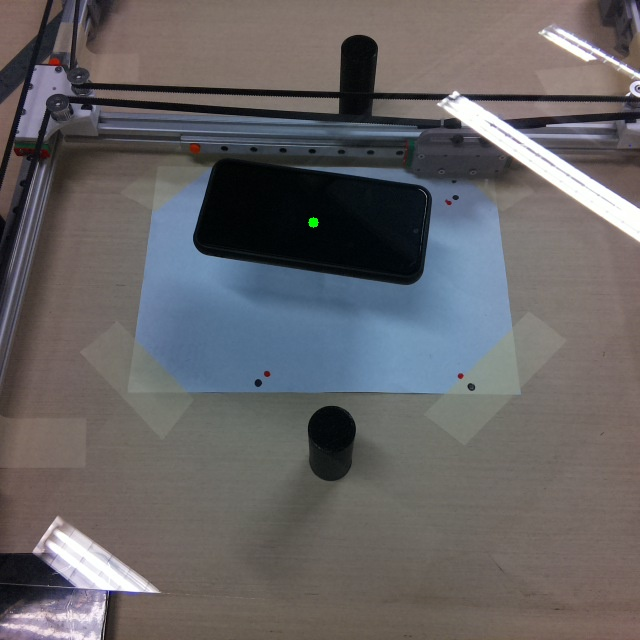
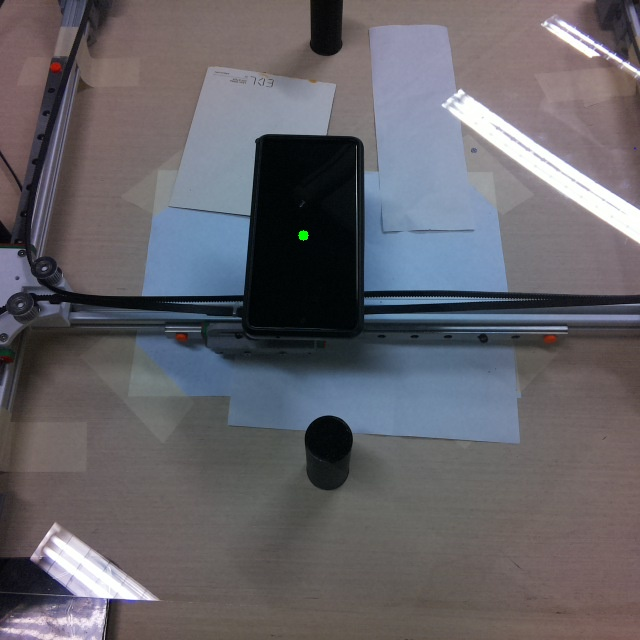
temp

diff --git a/app.py b/app.py
@@ -1,5 +1,7 @@
 import time
 import cv2
+import serial
+
 
 from detection import ObjectDetection
 from camera import BUFFER, get_image
@@ -7,28 +9,59 @@ from remap import remap_coor
 
 
 ins = ObjectDetection()
-cnt = 0
+
+# For debug purpose only uncomment this one
+# cnt = 0
 
 idx = 0
-while True:
-    idx += 1
-    if idx == BUFFER + 1:
-        idx = 1
 
-    # This is for testing only, remove the cnt for prod
-    # if cnt == 5:
-    #     break
-    
-    get_image()
-    img_path = f"obj{idx}.jpg"
-    image = cv2.imread(img_path)
+ser = serial.Serial(
+    port='/dev/ttyUSB0',  # Replace with the correct USB port for the Arduino
+    baudrate=9600,
+    timeout=1  # Timeout for read operations, in seconds
+)
 
-    res = ins.detect(img_path, idx)
+time.sleep(2)
+
+try:
+    while True:
+        idx += 1
+        if idx == BUFFER + 1:
+            idx = 1
+
+        # This is for testing only, remove the cnt for prod
+        # if cnt == 5:
+        #     break
+        st = time.time()
+        get_image()
+        img_path = f"obj{idx}.jpg"
+        image = cv2.imread(img_path)
+
+        res = ins.detect(img_path, idx)
 
 
-    # Mapping the center of phone coordinate back to image
-    print(res)
-    
+        # Mapping the center of phone coordinate back to image
+        print(res)
+        fin = [0, 0]
+        for i in res:
+            print(i)
+            fin = remap_coor(i[0], i[1])
+        print(f"Done in {time.time()-st} s")
 
-    time.sleep(2)
-    cnt += 1
+        # The string to send to the Arduino
+        data_to_send = f"{fin[0]},{fin[1]}"
+
+        # Check if serial is open and write data
+        if ser.isOpen():
+            ser.write(data_to_send.encode())  # Encode string to bytes
+            print(f"Sent '{data_to_send}' to Arduino.")
+        else:
+            print("Can't open serial port.")
+
+        time.sleep(0.5)
+        # cnt += 1
+except KeyboardInterrupt:
+    ser.close()
+    print("Gracefully exiting the program...")
+
+

diff --git a/remap.py b/remap.py
@@ -6,10 +6,11 @@ def remap_coor(x,y):
     # Define the four corners in the image
     # from the image perspective
     image_points = np.array([
-        [447., 200.], # top right (origin)
-        [456., 376.], # bottom right 
-        [261., 373.], # bottom left
-        [263., 197.], # top left
+        [459., 146.], # top right (origin)
+        [484., 339.], # bottom right 
+        [238., 336.], # bottom left
+        [258., 140.], # top left
+
         
     ], dtype=np.float32)
 
@@ -26,7 +27,7 @@ def remap_coor(x,y):
     H, _ = cv2.findHomography(image_points, real_points)
 
     # Use the homography to map any image point to a real-world point
-    image_point = np.array([312, 222, 1])
+    image_point = np.array([x, y, 1])
     real_point = np.dot(H, image_point)
     real_point = real_point / real_point[2]  # Convert to homogeneous coordinates
 
@@ -34,5 +35,6 @@ def remap_coor(x,y):
     y_real = real_point[1]
 
     print(round(x_real), round(y_real))
+    return (round(x_real), round(y_real))
 
-remap_coor(1,1)
+# remap_coor(1,1)

diff --git a/detection.py b/detection.py
@@ -20,7 +20,7 @@ class ObjectDetection:
         self.device = select_device()
 
         # Load model
-        self.model = attempt_load("yolov7.pt", map_location=self.device)  # load FP32 model
+        self.model = attempt_load("yolov7-tiny.pt", map_location=self.device)  # load FP32 model
         self.stride = int(self.model.stride.max())
         self.imgsz = check_img_size(640, s=self.stride)
 

diff --git a/camera.py b/camera.py
@@ -10,5 +10,5 @@ def get_image():
     if img_idx == BUFFER+1:
         img_idx = 1
 
-    os.system(f"libcamera-still -o obj{img_idx}.jpg --width 640 --height 640 --rotation 180")
+    os.system(f"libcamera-still -o obj{img_idx}.jpg --width 640 --height 640 --rotation 180 --timeout 1 --nopreview")
     
